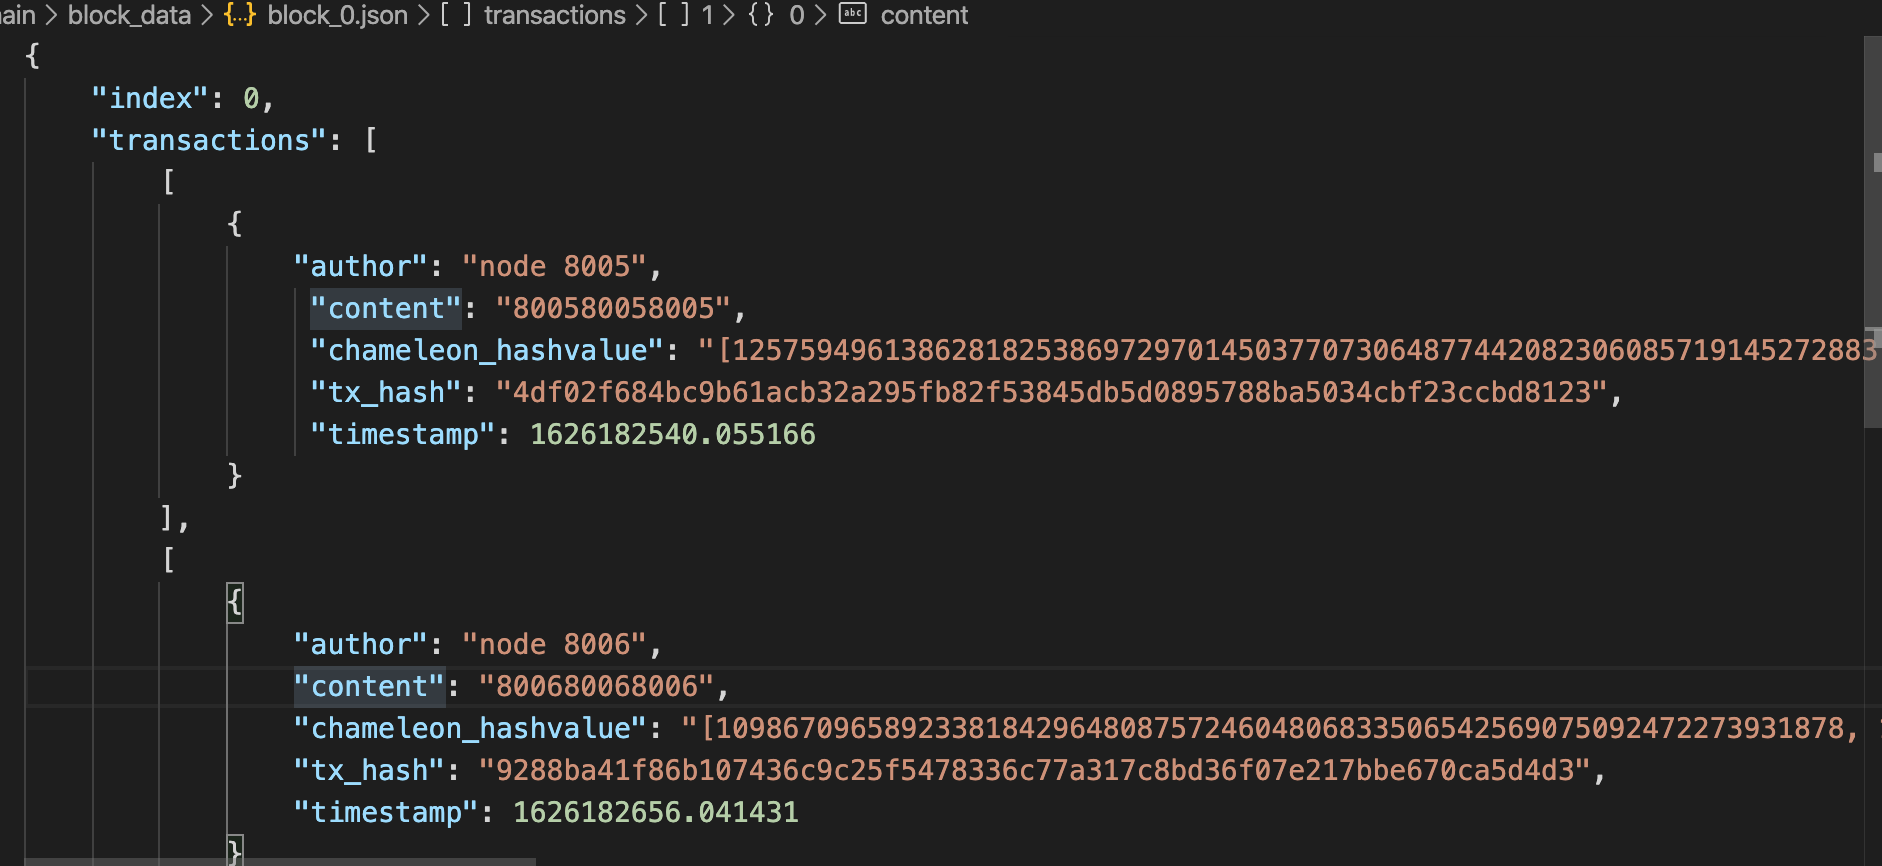
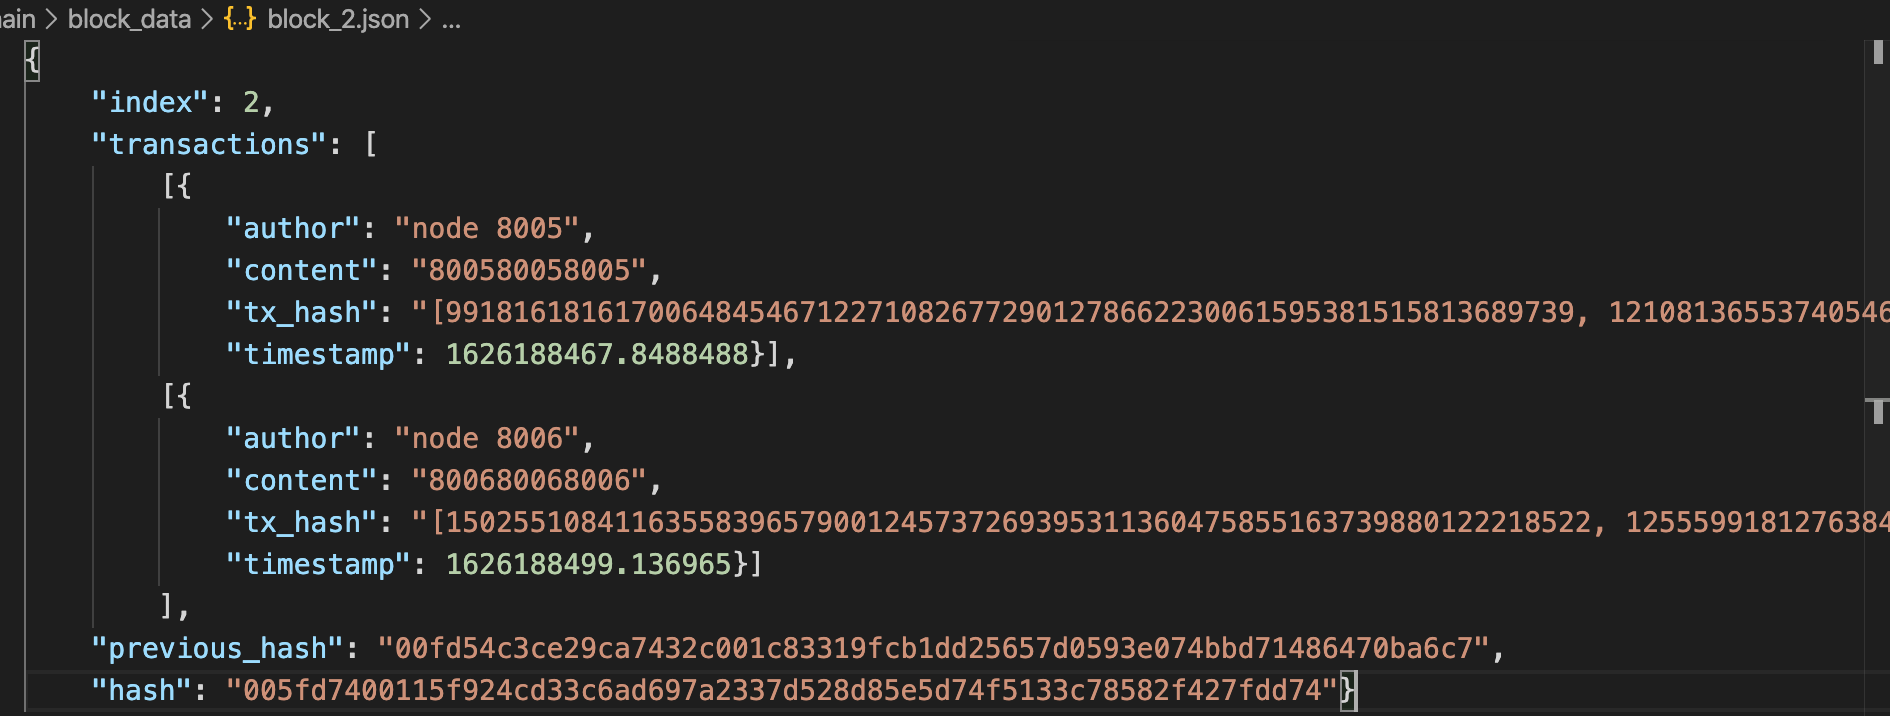
wip

diff --git a/blockchain/app/views.py b/blockchain/app/views.py
@@ -58,21 +58,21 @@ def submit_textarea():
     # tx_hash = sha256(str(post_content).encode()).hexdigest()
     res = hashfunc(int(post_content))
     # b, verify_text, adapt_text['message_prime'], adapt_text['p_prime'], adapt_text['b'], adapt_text['random_r_prime'], adapt_text['C_prime'], adapt_text['c_prime'], adapt_text['epk_prime'], adapt_text['sigma_prime'], adapt_text['res_prime']
-    to_modify_content = str(res[0])
+    chameleon_hashvalue = str(res[0])
     oldhash_verify, message_prime, p_prime, b_prime, random_r_prime, C_prime, c_prime, epk_prime, sigma_prime, newhash_verify = str(res[1]), str(res[2]), str(res[3]), str(res[4]), str(res[5]), str(res[6]), str(res[7]), str(res[8]), str(res[9]), str(res[10])
     # message = str(hashfunc(int(post_content))[1])
-    # tx_hash = sha256(str(to_modify_content).encode()).hexdigest()
-    tx_hash = sha256(to_modify_content.encode()).hexdigest()
+    # tx_hash = sha256(to_modify_content.encode()).hexdigest()
+    tx_hash = str(res[0])
     # print(hashlib.sha256(str(hash_text['b']).encode()).hexdigest())
-    output = {'tx_hash': tx_hash, 'old content': post_content, 'chameleon_hashvalue': to_modify_content, 'oldhash_verify': oldhash_verify, 'message_prime': message_prime, 'p_prime': p_prime, 'newchameleon_hashvalue': b_prime,'random_r_prime': random_r_prime, 'C_prime': C_prime, 'c_prime': c_prime, 'epk_prime': epk_prime, 'sigma_prime': sigma_prime,'newhash_verify': newhash_verify}
+    output = {'tx_hash': tx_hash, 'old content': post_content, 'chameleon_hashvalue': chameleon_hashvalue, 'oldhash_verify': oldhash_verify, 'message_prime': message_prime, 'p_prime': p_prime, 'newchameleon_hashvalue': b_prime,'random_r_prime': random_r_prime, 'C_prime': C_prime, 'c_prime': c_prime, 'epk_prime': epk_prime, 'sigma_prime': sigma_prime,'newhash_verify': newhash_verify}
     with open('./rewrite_data/' + str(tx_hash) + '.txt', 'w') as file:
         file.write(json.dumps(output))
 
     post_object = {
         'author': author,
         'content': post_content,
-        'chameleon_hashvalue': to_modify_content,
-        'tx_hash': tx_hash
+        # 'chameleon_hashvalue': chameleon_hashvalue,
+        'tx_hash': chameleon_hashvalue
     }
 
 

diff --git a/blockchain/node_server.py b/blockchain/node_server.py
@@ -80,7 +80,7 @@ class Blockchain:
         data = []
         # data.append(self.unconfirmed_transactions[0]['content'])
         # data.append(hashfunc(self.unconfirmed_transactions[0]['content']))
-        data.append(self.unconfirmed_transactions[0]['chameleon_hashvalue'])
+        data.append(self.unconfirmed_transactions[0]['tx_hash'])
         tree = MerkleTree(data, defaulthash)
         path = './block_data/merkle_' + str(block.index)
         # export(tree, filename=path)
@@ -162,7 +162,7 @@ class Blockchain:
             for i in last_block.transactions:
                 # data.append(i[0]['content'])
                 # data.append(hashfunc(i[0]['content']))
-                data.append(i[0]['chameleon_hashvalue'])
+                data.append(i[0]['tx_hash'])
             tree = MerkleTree(data, defaulthash)
             path = './block_data/merkle_' + str(last_block.index)
             # export(tree, filename=path)
@@ -198,7 +198,7 @@ peers = set()
 @app.route('/new_transaction', methods=['POST'])
 def new_transaction():
     tx_data = request.get_json()
-    required_fields = ["author", "content", "chameleon_hashvalue", "tx_hash"]
+    required_fields = ["author", "content", "tx_hash"]
 
     for field in required_fields:
         if not tx_data.get(field):

diff --git a/README.md b/README.md
@@ -50,7 +50,7 @@ We provide an execution output example in `./dpss.txt`,
 where `S` is *secret*, `shares_A` indicates the CommitteeA (old committee)'s shares,
  `reshare_A` denotes the re-shares that should be distributed from CommitteeA to CommitteeB (new committee)
  `shares_B` refers to the shares that CommitteeB re-calculate after receiving shares from CommitteeA,
-`recovered_S` means the recovered *secret* from new committee. As shown, it equals to `S`.
+`recovered_S` means the recovered *secret* from new committee. As shown, it is equal to `S`.
 
 
 ## Deploy a blockchain and nodes
@@ -91,6 +91,7 @@ $ flask run --port 8007
 ......
 ```
 As shown below, now we are deploying three nodes on blockchain.
+
 ![Image2](./result/node_three.png)
 
 ## Interact with blockchain
@@ -98,12 +99,15 @@ As shown below, now we are deploying three nodes on blockchain.
 Every node interacts with blockchain by sending transaction via http://localhost:{port_number}.
 In your browser, type http://localhost:{port_number} (e.g., http://localhost:8005/).
 The UI of each node is shown below:
+
 ![Image3](./result/ui1.png).
 
 To send a transaction to blockchain, type the data and your id and by clicking `Post` button.
+
 ![Image4](./result/ui2.png).
 
 To mine the transaction, in your browser, type http://localhost:8001/mine.
+
 ![Image5](./result/ui3.png).
 
 In our construction, each transaction contains the following properties:
@@ -111,53 +115,66 @@ In our construction, each transaction contains the following properties:
 {
     "author": transaction creator,
     "content": post_content,
-    "chameleon_hashvalue": the hashed value (traditional blockchain generates this field by generic SHA256 hash function while we propose a chameleon hash function that allows to change the content but keep
-    the chameleon hash value unchanged, achieving rewrite blockchain),
-    "tx_hash": transaction hash
+    "tx_hash": the hashed value (traditional blockchain generates this field by generic SHA256 hash function while we propose a chameleon hash function that allows to change the content but keep
+    the chameleon hash value unchanged to achieve rewrite blockchain),
+    "timestamp": time
 }
 ```
-**[Warning]: Please note that in the upper-layer real-worl blockchain (Merkle tree structure) only saves the hash value of content (i.e., `chameleon_hashvalue`, not saving the `content` itself).
-This is actually the objective of our paper. Unlike SHA256 hash, the chameleon hash function we proposed allows *m* and *m'* can generate identical hash value, allowing malicious/curious/authorized roles
-to rewrite the blockchain (i.e., the low-layer message `content` can be changed from *m* to *m'* but `chameleon_hashvalue` is unchanged)**
+**[Warning]: Please note that in the upper-layer real-worl blockchain (Merkle tree structure) only saves the `tx_hash` not `content` itself.
+This is actually the objective of our paper. In traditional blockchain
+`tx_hash` (i.e., `H(content)`), `H()` refers to SHA256.
+In our paper, `H()` denotes the chameleon hash function we proposed, which
+allows *m* and *m'* (different message) to have identical hash value.
+Thus, malicious/curious/authorized roles are able to rewrite the blockchain (i.e., the `content` can be changed from *m* to *m'* but `tx_hash` is unchanged)**
 
 The chain data (transaction details) are saved in `./block_data`. As shown below, 
-we give an example with two mined transactions. Please pay attention to the `chameleon_hashvalue`
-and `tx_hash`, we may introduce how to rewrite blockchain in the next section.
+we give an example with two mined transactions. 
+**Please pay attention to the and `tx_hash`, we may introduce how to rewrite blockchain in the next section.**
 
 ![Image6](./result/ui4.png).
 
 
 ## Rewrite blockchain
-In our paper, the objective of blockchain rewriting is: 
-in traditional blockchain constructions, the chain data is computed by generic 
-SHA-256 hash function, which has uniqueness property. That means *m* and *m'* have different hash value.
+In traditional blockchain constructions `tx_hash` (i.e., `H(content)`), 
+`H()` represents SHA-256, where *m* and *m'* have different hash value (collision-resistance property).
+In contrast, in our paper `H()` is a new chameleon hash we proposed 
+that allows *m* and *m'* are able to have the same hash value by performing specific strategy (refers to `Section 5.2` **Adapt()** method). 
 
-In contrast, we propose a new chameleon hash function (refers to `Section 5.2` in our paper)
-that allows *m* and *m'* are able to have the same chameleon hash value by performing specific strategy (refers to `Section 5.2` Adapt() method). By doing so, malicious/curious/authorized roles
-are able to rewrite the blockchain, as low-layer storage *m* can be replaced to *m'*
-but already-stored `chameleon_hashvalue` (stored at upper-layer blockchain's Merkle tree) is unchanged.
+By doing so, malicious/curious/authorized roles
+are able to rewrite the blockchain, as low-layer storage *m* can be replaced by *m'*
+but `tx_hash` (stored at upper-layer blockchain's Merkle tree) is unchanged.
 
 We demonstrate how to rewrite each transaction in `./rewrite_data`. Each file contains the
 required data for each transaction hash. In previous section,
[2 lines of base64/hex data omitted]
+the two transaction hash are 
 
-We provide the example for such two transaction in `./rewrite_data`. Taking 
[1 lines of base64/hex data omitted]
+`[9918161816170064845467122710826772901278662230061595381515813689739, 12108136553740546721779993929916482825396745683250111126990696946019]`
+
+and `[15025510841163558396579001245737269395311360475855163739880122218522, 1255599181276384280583862572561718270445146402237492801822382134568]`.
+
+**Please note that the chameleon hash values take the format of 2-element array(shown above)**
+
+
+The example for such two transaction in `./rewrite_data`. Taking 1st transaction as an example (please
 also refer to `Section 5.2` of our paper),
+
 ![Image6](./result/ui5.png).
 
 where `old content` is the posted content by node 8005,  `chameleon_hashvalue`
-is the hash value by our proposed chameleon hash function,  
+equals to `tx_hash` computed by our proposed chameleon hash function,  
 (`message_prime`, `p_prime`, `newchameleon_hashvalue`, `random_r_prime`, `C_prime`,
- `c_prime`, `epk_prime`, `sigma_prime`) are the required output data of `Adapt()` in `Section 5.2` of our paper, and the `newhash_verify` is the `Verify()`.
+`c_prime`, `epk_prime`, `sigma_prime`) are the required data to rewrite blockchain. 
+**(You may find details in `Adapt()` of `Section 5.2` of our paper).**
+and the `newhash_verify` is the `Verify()` result.
 
 Please find the process of cryptography correctness in our paper.
-For demonstration, you can see that `chameleon_hashvalue` and `newchameleon_hashvalue`
-are same but message *m* is from `800580058005` to *m'* `10922750752118515382477482494832258082451427663424270727346752036252`.
-Meanwhile, `newhash_verify` is `True` indicating the corretness is verified by `Verify()`.
+Generally speaking, you can find that 
 
+-  message *m* is from `800580058005` to *m'* `1486118873378442412242365621264141390816714490447791453132566421618`,
+but `chameleon_hashvalue` and `newchameleon_hashvalue` are same (actually,
+they are equal to `tx_hash`)
 
+- `newhash_verify` is `True`. This value is obtained by executing `Verify()` method, indicating the replacement (rewrite) is corret.
 
 
 
